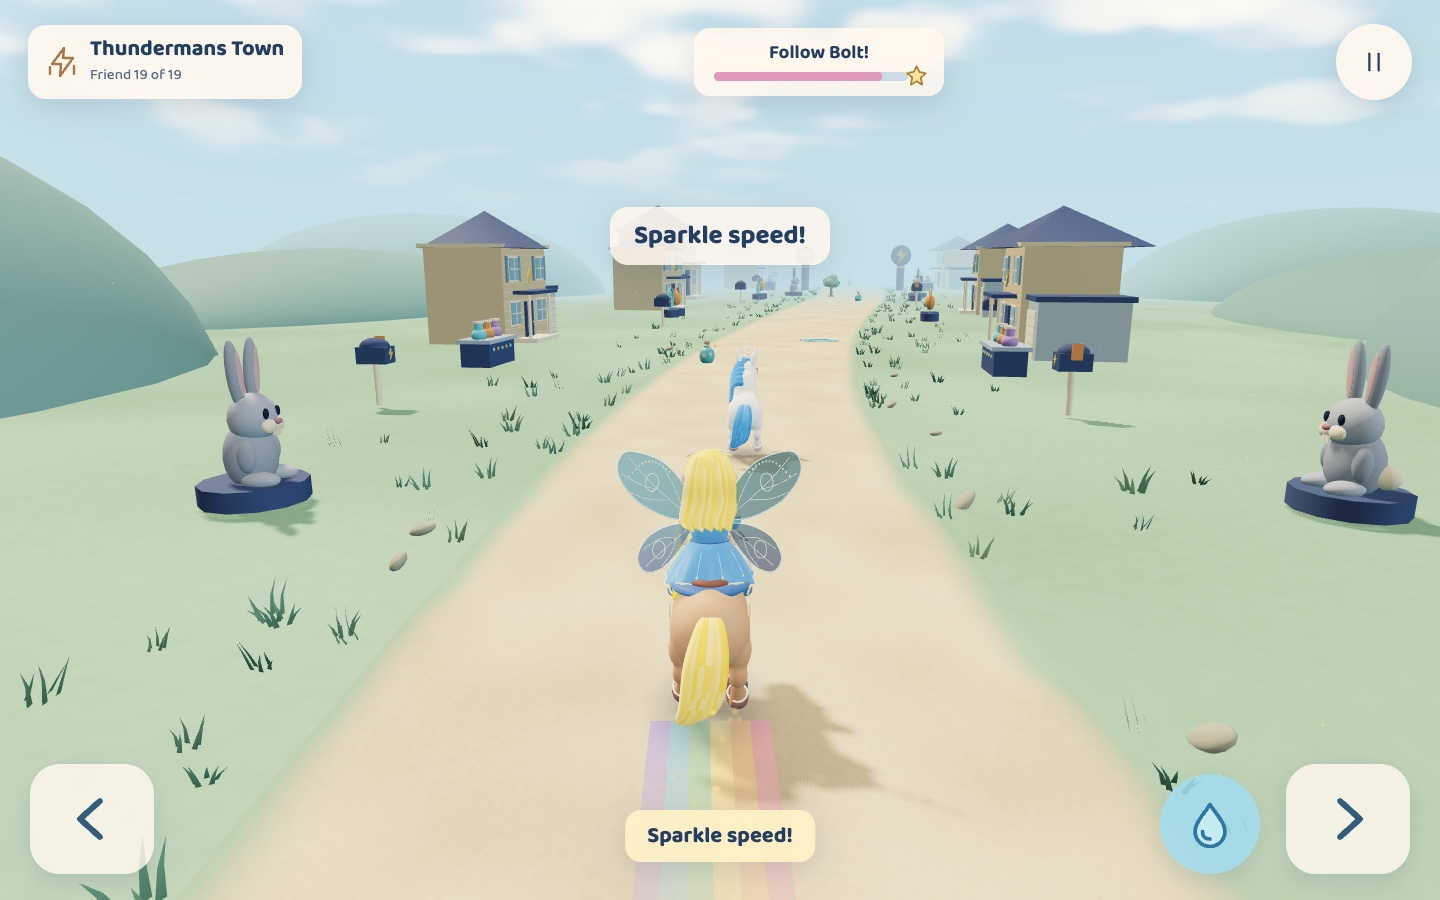
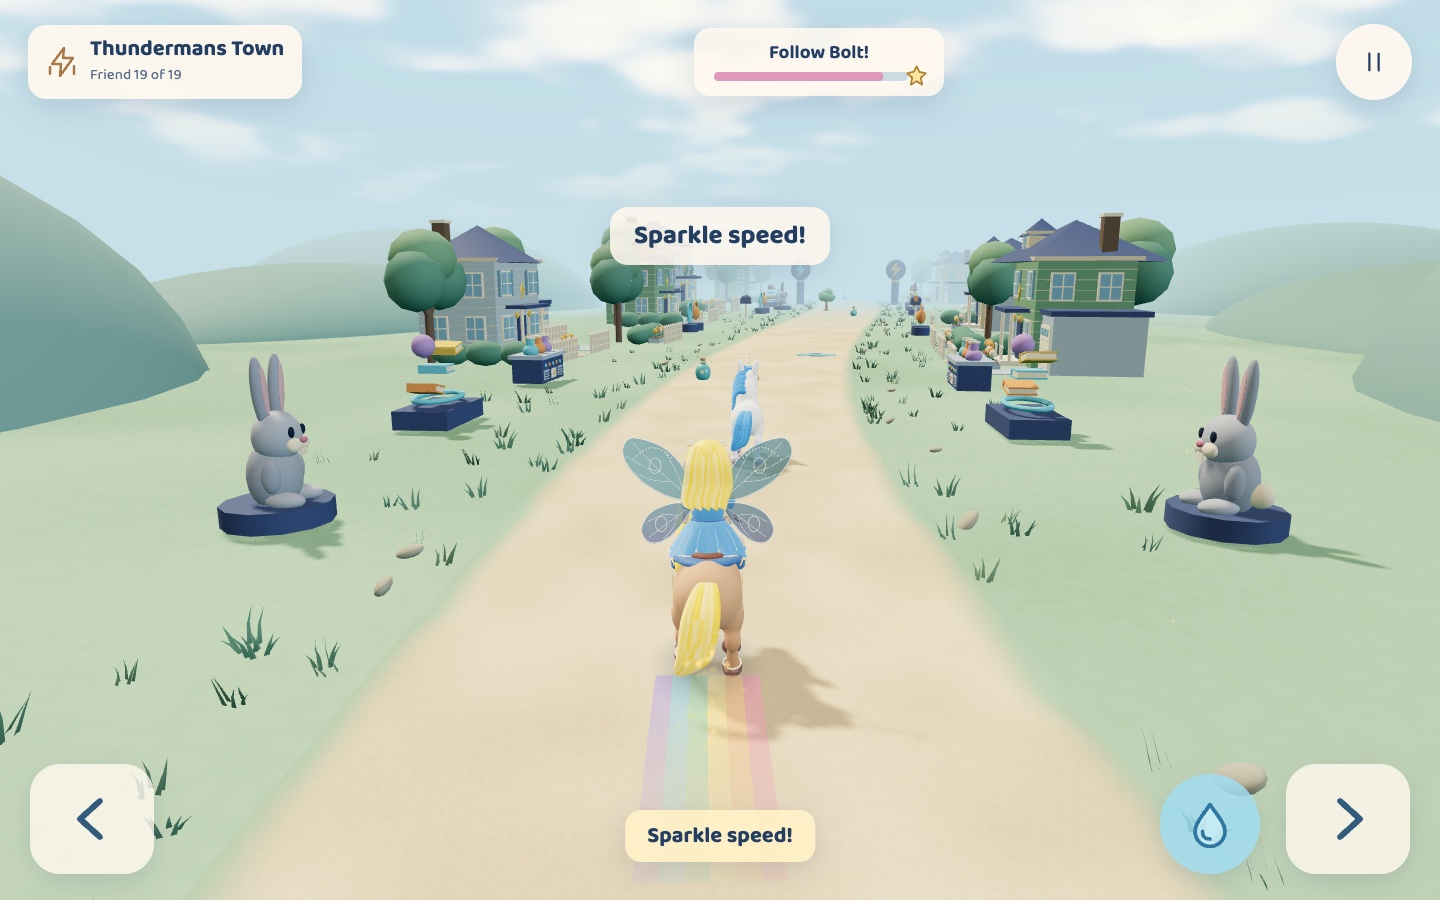
Record reviewed Thundermans density evidence

diff --git a/docs/NINE_WORLD_RELEASE_PLAN.md b/docs/NINE_WORLD_RELEASE_PLAN.md
@@ -18,7 +18,7 @@ scene.
 
 | Order / world | Required experience | State |
 | --- | --- | --- |
-| 1 / 19 | **The Thundermans inspired:** recognizable suburban super-family home and secret laboratory, paired warm/cool twin-power motifs, rabbit and gadget displays; no villain combat or new failure state. Provisional world/friend: Thundermans Town / Bolt. | October 23 density revision implemented; focused QA, fresh six-view review and v1.12.0 publication pending. PR #16 open. |
+| 1 / 19 | **The Thundermans inspired:** recognizable suburban super-family home and secret laboratory, paired warm/cool twin-power motifs, rabbit and gadget displays; no villain combat or new failure state. Provisional world/friend: Thundermans Town / Bolt. | October 23 density revision, local QA and independent six-view SHIP complete; final PR #16 CI, v1.12.0 publication and live checks pending. |
 | 2 / 20 | **Fast food:** unmistakable pizza, burgers, fries and milkshakes, with dimensional food scenery and clear pursuit visibility. | Research brief saved; implementation gated. |
 | 3 / 21 | **Water park:** recognizable dimensional slides, structural supports and pools; safe path and unchanged controls. | Research brief saved; implementation gated. |
 | 4 / 22 | **Zebra savannah:** many visibly striped zebras distributed through the actual playable savannah, rather than a sparse zebra ornament or only a menu illustration. | Research brief saved; implementation gated. |
@@ -80,7 +80,7 @@ through material batching and a constructed world disposes its scene root.
 The before/after whole-world mesh/triangle metrics below include all scenery
 around the entire lap and instanced decoration, but exclude the sculpted cast.
 They are geometry inventories, **not frame draw calls or GPU timings**. Actual
-six-view render metrics remain required from Luna's capture run.
+visible-frame render metrics are recorded below.
 
 | Inventory | Before (`2e84335`) | Density revision |
 | --- | ---: | ---: |
@@ -92,11 +92,29 @@ The static triangle inventory increases by 598,268; batching limits the mesh
 increase to 51 (8.3%). A current roadside chunk uses 20 material meshes, rather
 than rendering each house fixture/flower separately. All nine factories across
 three variant inputs preserve triangles and finite vertex coordinates after
-baking. This bounded cost is provisional until actual gameplay render metrics
-and fresh density/readability review pass.
+baking. These geometry counts are separate from visible-frame render cost.
 
 The existing Mia, Glender, unicorn GLBs and `characters.js` SHA-256 hashes remain
 exactly unchanged. Existing controls, scene clock, camera, finale and PWA are
-unchanged in this revision. Syntax and static geometry checks pass; focused
-browser QA, six fresh gameplay captures, independent review, PR CI, v1.12.0
-publication and public/profile/offline verification remain pending.
+unchanged in this revision. The refreshed hashes match the live v1.11.0 models:
[4 lines of base64/hex data omitted]
+
+October 23 local QA after the density revision: unit tests 23/23 and production
+build pass. Focused Chromium and WebKit checks pass for rendered potion/jump/
+collision behavior and the previous-release save path through unlocked newest
+world, actual catch, 19-friend finale, saved preferences and reload. Six fresh
+desktop/iPad landscape gameplay captures cover the opening, middle and near-Bolt
+route; their approved copies appear in `docs/screenshots`. The opening shows an
+uncollected potion ahead; near captures show Bolt about 14 units ahead before
+catch. They were rendered at Automatic quality on verified ANGLE Metal / Apple
+M2, with no console, page or failed-resource errors. A bounded 210-frame render
+sample measured 266–298 calls and approximately 0.87–0.96 million visible
+triangles in representative Automatic views, with 3.2–3.4 ms median and
+4.0–4.1 ms p95 frame submission. Low quality measured 220–232 calls and about
+0.65 million visible triangles, with 3.1–3.2 ms median and 3.7 ms p95 across
+150 frames. These are desktop Apple M2 measurements, not physical iPad
+performance. Independent density/readability review is SHIP; final PR CI,
+v1.12.0 publication and public/profile/offline verification remain pending.

diff --git a/docs/RELEASES.md b/docs/RELEASES.md
@@ -9,18 +9,39 @@ friends unlock Thundermans Town while preserving collection progress and
 preferences. The expanded finale gathers all nineteen friends in three raised
 rows while keeping the player, rainbow and controls in view.
 
-![Thundermans Town with Bolt ahead at desktop size](screenshots/thundermans-town-desktop-bolt-near.jpg)
+The route layers detailed suburban homes and planted yards around the playable
+lane, with open gadget labs, twin-power exhibits, rabbit displays and deeper
+garden rows. The visual inspiration and what the sources do not establish are
+recorded in [the design notes](../DESIGN_NOTES.md#thundermans-town-extension--october-22).
 
-![Thundermans Town with Bolt ahead at iPad landscape size](screenshots/thundermans-town-ipad-landscape-bolt-near.jpg)
+The approved density review covers the opening, middle chase and near catch at
+desktop and iPad landscape sizes:
+[opening](screenshots/thundermans-town-opening-desktop.jpg) ·
+[middle](screenshots/thundermans-town-middle-desktop.jpg) ·
+[near Bolt](screenshots/thundermans-town-desktop-bolt-near.jpg) ·
+[iPad opening](screenshots/thundermans-town-opening-ipad-landscape.jpg) ·
+[iPad middle](screenshots/thundermans-town-middle-ipad-landscape.jpg) ·
+[iPad near Bolt](screenshots/thundermans-town-ipad-landscape-bolt-near.jpg).
 
-The opening chase shows the actual potion pickup: [desktop gameplay](screenshots/thundermans-town-potion-visible-ahead.jpg).
+The desktop opening shows an uncollected potion on the route ahead:
+[potion view](screenshots/thundermans-town-potion-visible-ahead.jpg).
 
-The nineteen-friend finale: [desktop](screenshots/thundermans-town-finale-desktop.jpg) · [iPad landscape](screenshots/thundermans-town-finale-ipad-landscape.jpg). [Rainbow Meadow preservation capture](screenshots/thundermans-town-meadow-preservation.jpg) checks that the established world and sculpted cast remain intact.
+The nineteen-friend finale is preserved from the original World 19 visual QA;
+the finale/cast code is unchanged by this scenery-only revision:
+[desktop](screenshots/thundermans-town-finale-desktop.jpg) ·
+[iPad landscape](screenshots/thundermans-town-finale-ipad-landscape.jpg).
+The [Rainbow Meadow preservation capture](screenshots/thundermans-town-meadow-preservation.jpg)
+also predates the density revision; Meadow and cast assets are unchanged.
 
-Local validation covered the world art batching, prior-release migration,
-real chase/catch/collection, New Game preferences, and PWA update/offline
-survival in Chromium/Metal and WebKit. Physical iPad playtesting remains
-outstanding.
+Local validation after the density revision passed 23 unit tests, the
+production build and focused rendered chase/migration checks in Chromium/Metal
+and WebKit. Automatic-quality Apple M2 Metal captures measured about 0.87–0.96
+million visible triangles and 266–298 draw calls; bounded frame submission
+samples were 3.2–3.4 ms median and 4.0–4.1 ms p95. Low quality measured about
+0.65 million triangles, 220–232 calls, and 3.1–3.2/3.7 ms median/p95. These are
+desktop measurements, not physical iPad results. Final CI and live release
+profile/offline checks are tracked by the release workflow; physical iPad
+playtesting remains outstanding.
 
 ## v1.11.0 — Sculpted character cast
 

diff --git a/README.md b/README.md
@@ -94,6 +94,8 @@ These are real screenshots of the running game, captured at an iPad-sized landsc
 
 Each world has its own complete loop, pickups, obstacles, palette, unicorn, and celebration. The meadow introduces the adventure quickly. Deterministic no-steering play takes about 23 seconds there and 61–70 seconds in later worlds; finding more potions can shorten a chase.
 
+Thundermans Town is an original suburban super-family and open-lab interpretation, informed by Nickelodeon's official Max and Phoebe profiles and the original series announcement. The sources and visual evidence limits are recorded in [the design notes](DESIGN_NOTES.md#thundermans-town-extension--october-22).
+
 World names, unicorn nicknames, Glender’s base coat, and tuning are **provisional**. The creative director can change them. Her confirmed decisions and the open choices are recorded in [DESIGN_NOTES.md](DESIGN_NOTES.md).
 
 ## How to play
